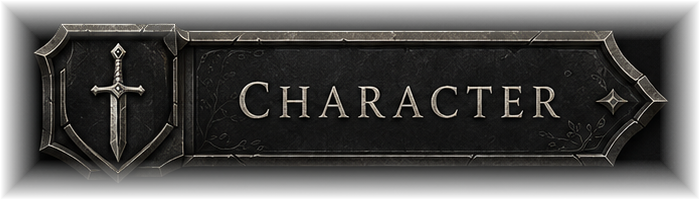
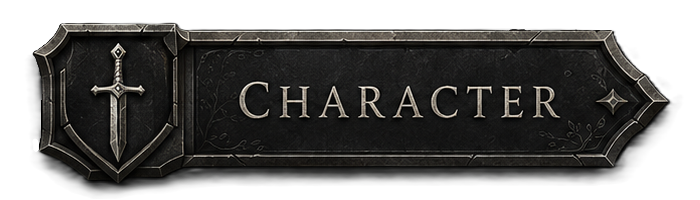
Update inactive character launcher asset

diff --git a/apps/rpg-ui/src/game-shell/components/AppShell.tsx b/apps/rpg-ui/src/game-shell/components/AppShell.tsx
@@ -63,7 +63,7 @@ export function TopBar({
       className="launcher-shell-bar relative z-30 shrink-0 border-b"
       style={{ background: 'var(--color-shell-chrome-top-bg)' }}
     >
-      <div className="grid min-h-[4.5rem] grid-cols-1 gap-3 px-4 py-3 md:min-h-[5rem] lg:grid-cols-[minmax(0,1fr)_auto_minmax(0,1fr)] lg:items-center lg:px-6">
+      <div className="grid min-h-[4.5rem] grid-cols-1 gap-3 px-4 py-3 md:min-h-[4.75rem] lg:grid-cols-[minmax(0,1fr)_auto_minmax(0,1fr)] lg:items-center lg:px-6">
         {hasLeadingContent ? (
           <div className="flex min-w-0 items-center gap-4 lg:col-start-1">
             {brand && <div className="shrink-0">{brand}</div>}

diff --git a/apps/rpg-ui/src/index.css b/apps/rpg-ui/src/index.css
@@ -900,7 +900,7 @@ select {
 @media (min-width: 768px) {
   .launcher-sidebar-nav {
     gap: 0;
-    padding: 0.875rem 0 0;
+    padding: 2.5rem 0 0;
   }
 
   .launcher-sidebar-button.has-art {

diff --git a/docs/dev/current-codex-output.md b/docs/dev/current-codex-output.md
@@ -1,57 +1,49 @@
 # Current Codex Output
 
-Source version/run: Launcher Logo Top Edge Spacing
+Source version/run: Launcher Inactive Character Asset Replacement
 Date: 2026-05-13
-Branch/status assumption: `master`; worktree was already dirty with prior launcher texture styling/assets and the output doc before this spacing run. Existing untracked user-provided `unused assets/` intake files were preserved.
+Branch/status assumption: `master`; worktree already had modified launcher spacing files, this output doc, and a modified `unused assets/Inactive_Character.png` at run start.
 
 ## Result
 
-Tightened the launcher top-left logo placement so the framed logo aligns to the top of the logo well instead of visually floating below the screen edge.
+Replaced the current launcher inactive Character button image used by the UI with the updated asset from `unused assets/Inactive_Character.png`.
 
-Slightly reduced the desktop primary top bar minimum height to match the reduced logo-well vertical space. Preserved the existing margin between the logo area and the first sidebar button, with the sidebar background still filling the space directly below the logo.
+The UI is wired to `/launcher/character-inactive-soft.png`, so only `apps/rpg-ui/public/launcher/character-inactive-soft.png` was overwritten. The older raw `character-inactive.png` asset was left unchanged.
 
 ## Files Changed
 
-- `apps/rpg-ui/src/game-shell/components/AppShell.tsx`
-- `apps/rpg-ui/src/game-shell/components/ShellBrandLogo.tsx`
+- `apps/rpg-ui/public/launcher/character-inactive-soft.png`
 - `docs/dev/current-codex-output.md`
 
-Existing dirty/untracked launcher texture files were not changed in this run:
+Existing dirty files preserved from earlier work:
 
+- `apps/rpg-ui/src/game-shell/components/AppShell.tsx`
 - `apps/rpg-ui/src/index.css`
-- `apps/rpg-ui/public/launcher/dark-background-vertical-mid.png`
-- `apps/rpg-ui/public/launcher/dark-background-horizontal-mid.png`
-- `apps/rpg-ui/public/launcher/dark-background-horizontal-bottom-slim.png`
-- `unused assets/Dark_Background_Horizontal_Bottom.png`
-- `unused assets/Dark_Background_Horizontal_Bottom_Slim.png`
-- `unused assets/Dark_Background_Horizontal_Mid.png`
-- `unused assets/Dark_Background_Vertical_Mid.png`
-- `unused assets/Dark_Background_Vertical_Right.png`
+- `unused assets/Inactive_Character.png`
 
 ## Checks Run
 
-- `git status --short`: run before edits; showed existing modified launcher texture styling, modified output doc, and untracked launcher texture assets.
-- `git branch --show-current`: `master`.
+- `git status --short`: run before edits; showed modified launcher spacing files, modified output doc, and modified `unused assets/Inactive_Character.png`.
+- Asset inspection: source and destination are both `700x200`.
[1 lines of base64/hex data omitted]
 - `npm.cmd run tool:content-lint`: passed.
-- `node --test tests\unit\*presentation*.mjs`: passed, 32 tests.
-- Narrow TSX syntax check for `AppShell.tsx` and `ShellBrandLogo.tsx`: passed.
 - `git diff --check`: passed with CRLF normalization warnings only.
 
 ## Behavior / Runtime Confirmation
 
-Runtime behavior did not change. Save/account state, content JSON, schemas, combat, magic, Legacy, progression logic, character creator logic, sidebar button behavior, and asset files were untouched.
+Runtime behavior did not change. Save/account state, content JSON, schemas, combat, magic, Legacy, progression logic, character creator logic, save-slot behavior, launcher routing, and button state logic were untouched.
 
-This was limited to launcher shell visual spacing: logo vertical alignment and primary top bar height.
+This was limited to replacing the inactive Character launcher button image asset currently referenced by the UI.
 
 ## Risks / Follow-Up
 
-- No browser visual QA was run; validation was lint/tests/syntax/diff-only.
-- The original user-provided intake files remain in `unused assets/` and are still untracked.
+- No browser visual QA was run; validation was asset dimension/hash plus lint/diff checks.
+- The source `unused assets/Inactive_Character.png` remains modified in the worktree because it was already the updated user-provided source asset.
 
 ## Next Recommended Version
 
-Version 0.5.27 - Launcher Browser Visual QA
+Version 0.5.29 - Launcher Browser Visual QA
 
 ## Suggested Commit Message
 
-style(ui): tighten launcher logo top edge
+style(ui): update inactive character launcher asset
